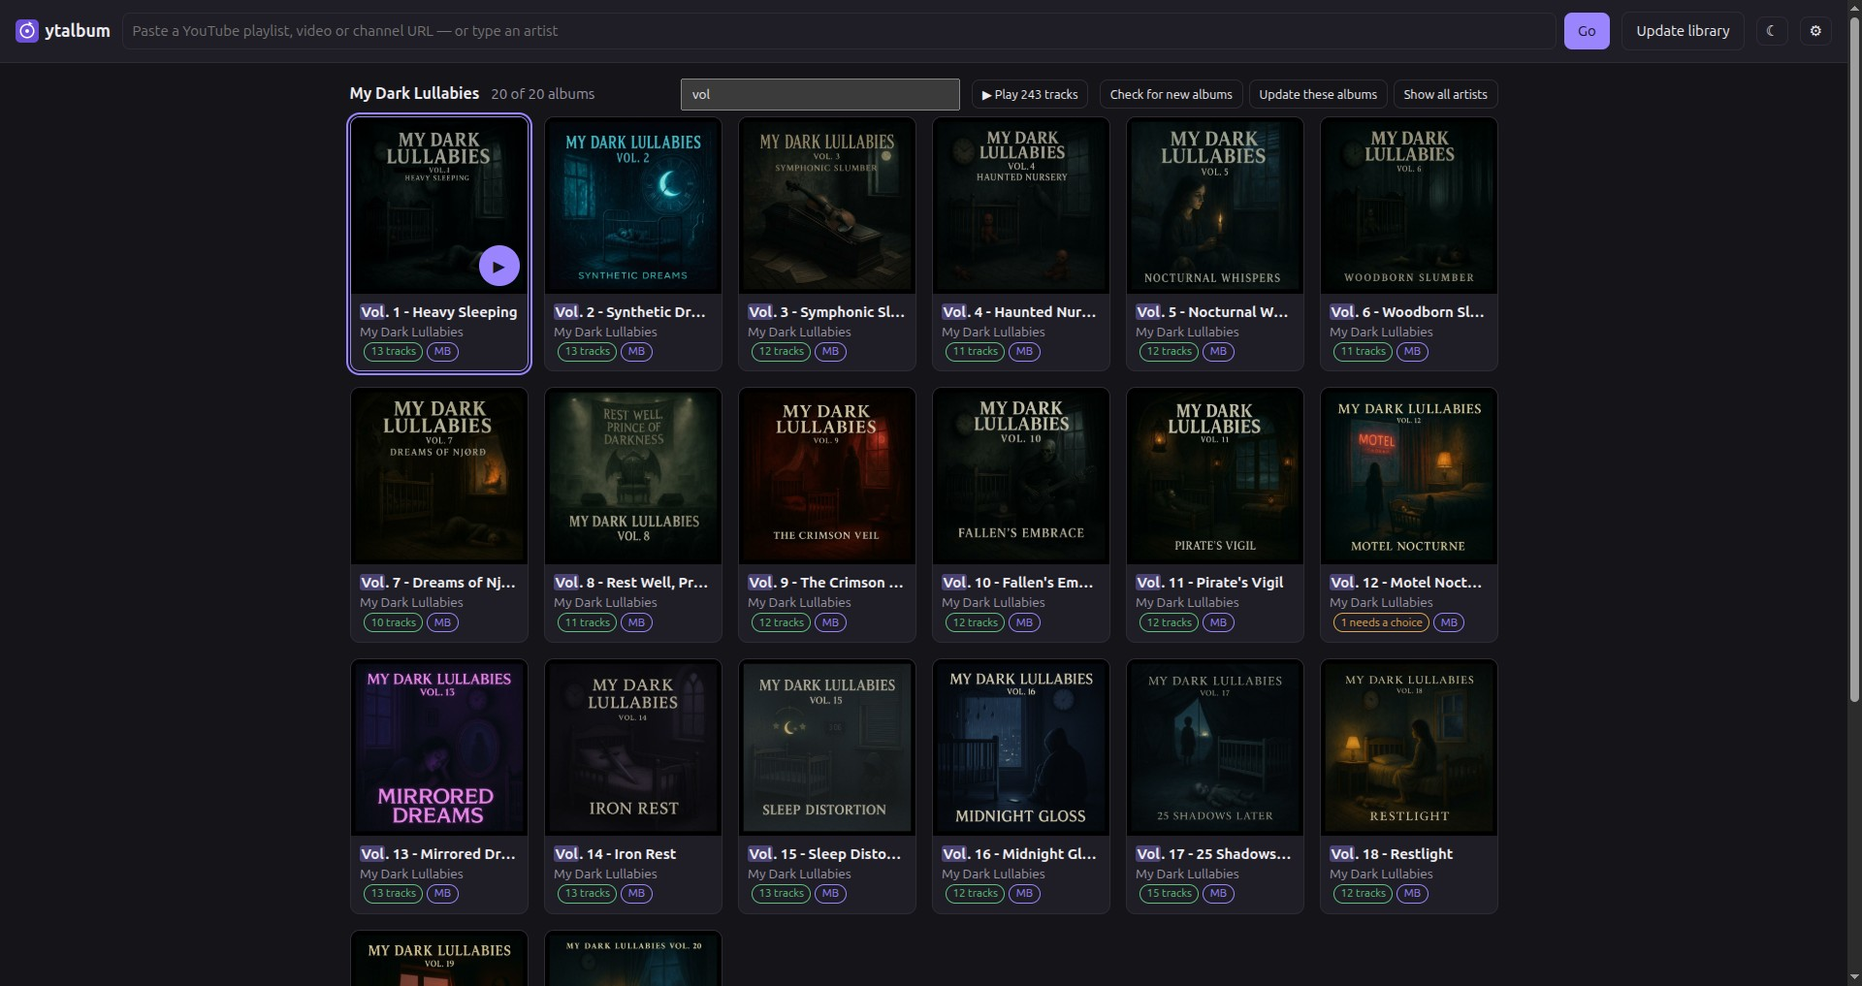
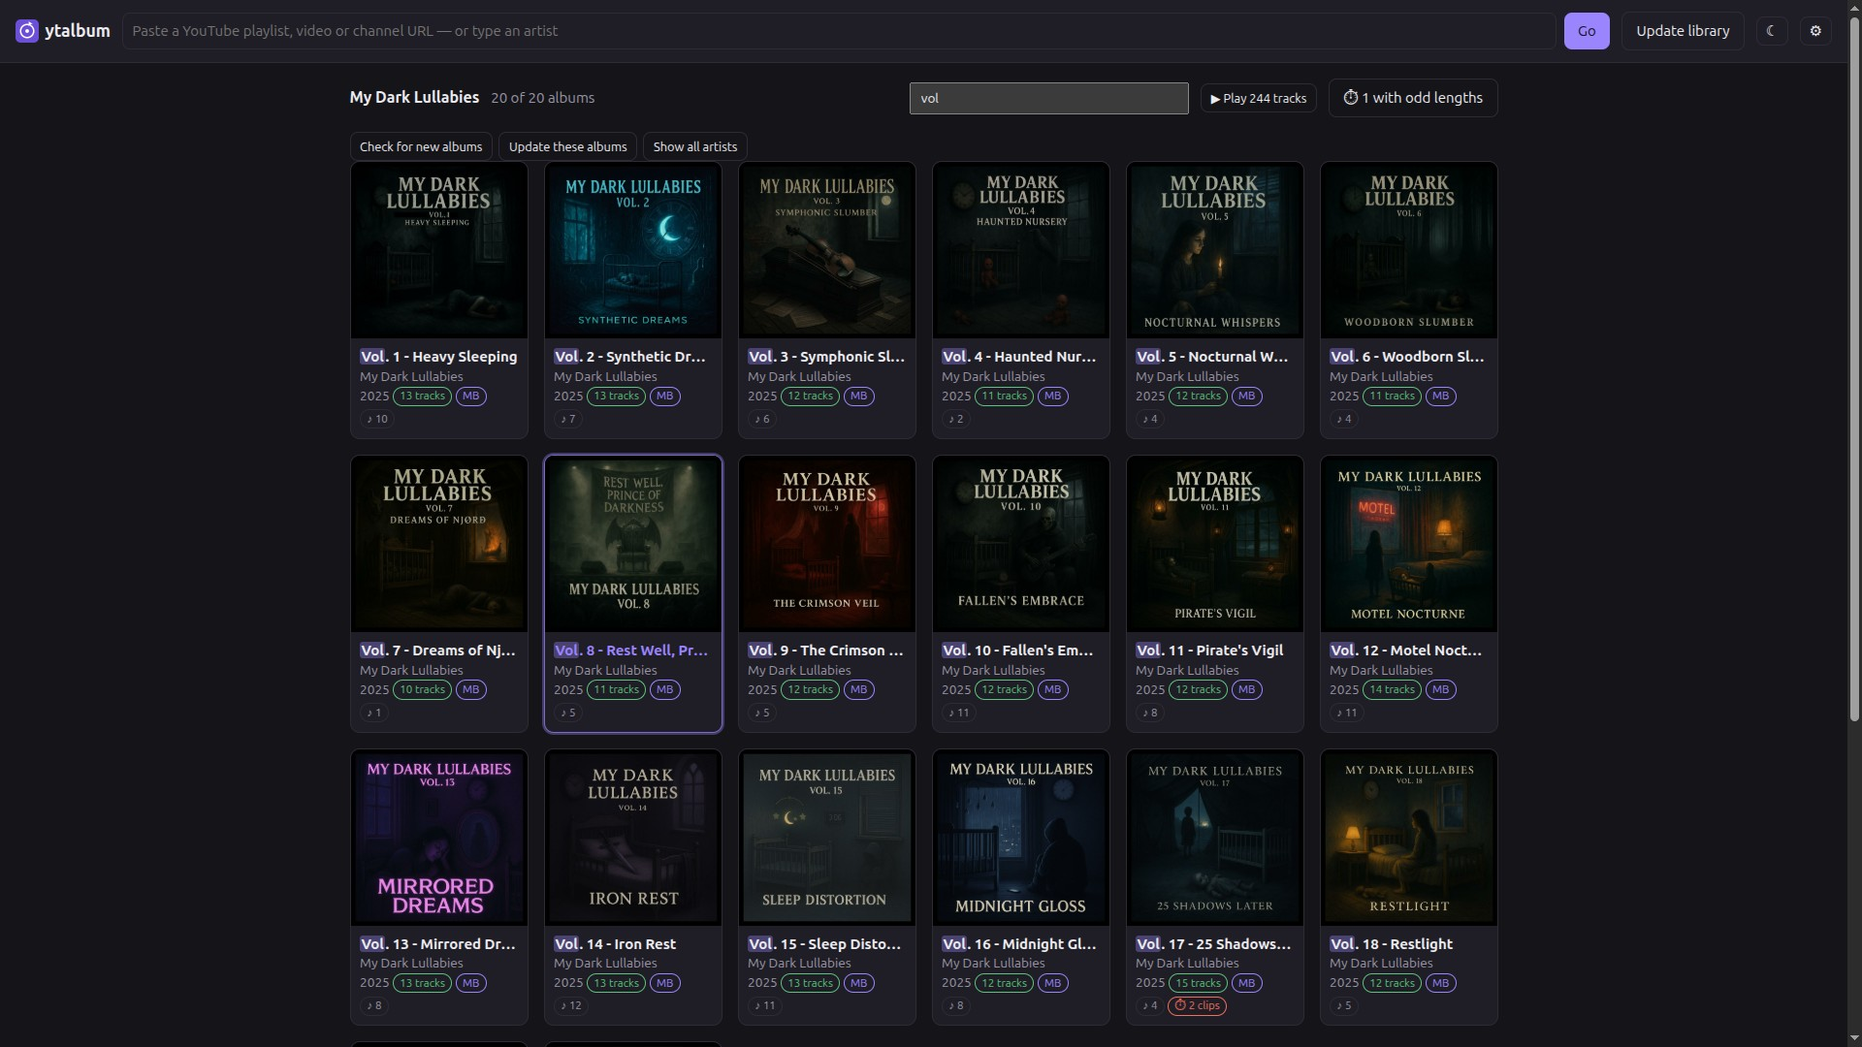
An edition is not a version, and a length belongs to its own recording
core() strips bracket groups before comparing titles, which is right for
"(Deluxe Edition)" and wrong for "(Instrumental)". Measured against the real
YouTube titles of 35 albums: 5 carried an edition marker MusicBrainz lacked,
1 a version marker - OPVS NOIR Vol. 1 (Instrumental), filed as the ordinary
album. Re-fetched with the rule in place it did not just keep its name, it
matched the right MusicBrainz release.

The same measurement found the companion fault: a track whose recording was
refused ("(Live)", a cover) kept that recording's length anyway - 55 tracks in
the library, 21 of them marked by the new length chip, a live cut reading two
minutes short against its studio version. mb_length is now written only when the
recording is accepted, and repair gives up the ones already stored.

Both thresholds of the album flag were corrected once the library answered: a
stub flags an album alone (8 tracks of 3946 are one, each a snippet, a radio edit
or a wrong match), a whole-album drift needs three tracks rather than two. 12
albums are flagged, and the card badges now wrap instead of being cut off.

Changed region(s): [[0.1875, 0.061, 0.8125, 1.0], [0.0, 0.0, 0.0625, 0.061], [0.8438, 0.0305, 0.9062, 0.061]]

diff --git a/src/ytalbum/webui/app.js b/src/ytalbum/webui/app.js
@@ -352,12 +352,14 @@ addEventListener("scroll", () => { toTop.hidden = scrollY < 600; }, { passive: t
 // means the release we matched is not the one we have (or the playlist is not the album).
 function lengthBadge(a) {
   if (!a.length) return null;
-  const short = a.length.way === "short";
-  return h("span", { class: `badge ${short ? "bad" : "warn"}`,
-    title: short
-      ? `${a.length.n} of ${a.length.of} tracks are far shorter than the song is meant to be — previews, commentary clips, or the wrong release matched`
-      : `${a.length.n} of ${a.length.of} tracks run well over the known length — intros to cut, or the wrong release matched` },
-    `\u23f1 ${a.length.n}/${a.length.of} ${short ? "short" : "long"}`);
+  const { way, n, of } = a.length;
+  const text = { stub: `⏱ ${n} clip${n > 1 ? "s" : ""}`, short: `⏱ ${n}/${of} short`, long: `⏱ ${n}/${of} long` }[way];
+  const title = {
+    stub: `${n} track${n > 1 ? "s are" : " is"} far shorter than the song — a snippet, a radio edit, or the wrong recording matched`,
+    short: `${n} of ${of} tracks fall well under the known length — previews, or the wrong release matched`,
+    long: `${n} of ${of} tracks run well over the known length — intros to cut, or the wrong release matched`,
+  }[way];
+  return h("span", { class: `badge ${way === "long" ? "warn" : "bad"}`, title }, text);
 }
 
 function card(a) {

diff --git a/src/ytalbum/webui/style.css b/src/ytalbum/webui/style.css
@@ -61,7 +61,10 @@ h2 { font-size: 1rem; margin: .25rem 0 .75rem; }
 .cover.none { display: grid; place-items: center; font-size: 2rem; color: var(--muted); }
 .card .meta { padding: .5rem .6rem .6rem; }
 .card .title { font-weight: 600; overflow: hidden; text-overflow: ellipsis; white-space: nowrap; }
-.card .artist, .card .info { font-size: .85rem; color: var(--muted); overflow: hidden; text-overflow: ellipsis; white-space: nowrap; }
+.card .artist { font-size: .85rem; color: var(--muted); overflow: hidden; text-overflow: ellipsis; white-space: nowrap; }
+/* the badges wrap instead of being cut off: a card can carry tracks, MB, lyrics and a length */
+.card .info { font-size: .85rem; color: var(--muted); display: flex; flex-wrap: wrap; align-items: center; gap: .2rem; }
+.card .info .badge { margin-left: 0; }
 .badge { display: inline-block; font-size: .72rem; padding: .05rem .4rem; border-radius: 99px; border: 1px solid var(--line); color: var(--muted); margin-left: .25rem; }
 .badge.mb, .badge.user { border-color: var(--accent); color: var(--accent); }
 .badge.ok { border-color: var(--ok); color: var(--ok); }

diff --git a/tests/test_musicbrainz.py b/tests/test_musicbrainz.py
@@ -14,11 +14,14 @@ from ytalbum.enrich import (
     credited,
     enrich,
     enrich_release,
+    enrich_track,
     feat_text,
     kept_suffixes,
     pick_recording,
+    release_candidates,
     split_lookup,
     uploader_stood_in,
+    version_markers,
 )
 from ytalbum.mb import MusicBrainz, MusicBrainzError, phrase
 from ytalbum.models import Collection, Kind, PlanTrack, Provenance
@@ -341,3 +344,65 @@ def test_the_release_and_its_tracks_get_the_artists_own_spelling():
     assert plan.albumartist == "Visions of Atlantis"
     assert {t.artist for t in plan.tracks} == {"Visions of Atlantis"}
     assert plan.provenance["albumartist"] == Provenance.MB
+
+
+# -- a bracket group can say the recordings are different ones ------------------------------
+
+
+@pytest.mark.parametrize(
+    ("title", "markers"),
+    [
+        ("OPVS NOIR Vol. 1 (Instrumental)", {"instrumental"}),
+        ("Heroes (Track Commentary Version)", {"commentary"}),
+        ("Louder Than Hell (Live in Hamburg)", {"live"}),
+        ("Swan Songs (Deluxe Edition)", set()),  # an edition holds the same recordings
+        ("Nimmermehr (Tour Edition)", set()),
+        ("Temple of the Torn (Collector's Cut)", set()),
+        ("Alive", set()),  # not a marker: it must be a word of its own, in brackets
+        ("Wildlive", set()),
+    ],
+)
+def test_version_markers_are_told_from_edition_markers(title, markers):
+    assert version_markers(title) == markers
+
+
+def release_named(title, n=13):
+    return {"id": "rel", "title": title, "track-count": n, "status": "Official",
+            "artist-credit": [{"name": "Sabaton", "artist": {"name": "Sabaton"}}], "score": 100}
+
+
+def test_a_release_of_other_recordings_is_not_our_album():
+    """The Sabaton case: 11 commentary clips took the name of the album they talk about."""
+    plan = plan_for("vol1_collection.json")
+    plan.albumartist, plan.album = "Sabaton", "Heroes (Track Commentary Version)"
+    assert release_candidates(plan, [release_named("Heroes")]) == []
+    assert release_candidates(plan, [release_named("Heroes (Track Commentary Version)")])
+
+
+def test_an_edition_still_matches_the_plain_release():
+    plan = plan_for("vol1_collection.json")
+    plan.albumartist, plan.album = "Sabaton", "Heroes (Deluxe Edition)"
+    assert release_candidates(plan, [release_named("Heroes")])
+
+
+def test_a_studio_release_is_not_offered_for_a_live_upload():
+    plan = plan_for("vol1_collection.json")
+    plan.albumartist, plan.album = "Sabaton", "Heroes (Live in Prague)"
+    assert release_candidates(plan, [release_named("Heroes")]) == []
+
+
+def test_a_rejected_recording_leaves_no_length_behind():
+    """`mb_length` is the length of the recording we accepted, or nothing at all."""
+    t = PlanTrack(video_id="a" * 11, number=1, artist="Feuerschwanz", title="Ketzerei (Summer Breeze 2016)",
+                  filename="", provenance={})
+
+    class OneRecording:
+        def search_recordings(self, artist, title):
+            return [{"id": "rec-1", "title": "Ketzerei", "length": 215500, "score": 100,
+                     "artist-credit": [{"name": "Feuerschwanz", "artist": {"name": "Feuerschwanz"}}]}]
+
+    assert enrich_track(t, OneRecording()) is True
+    assert t.artist == "Feuerschwanz"  # the artist is confirmed
+    assert t.title == "Ketzerei (Summer Breeze 2016)"  # our title stands
+    assert t.mbid is None
+    assert t.mb_length is None

diff --git a/src/ytalbum/enrich.py b/src/ytalbum/enrich.py
@@ -30,6 +30,17 @@ MIN_TRACK_MATCH = 0.8
 RELEASE_LOOKUPS = 3  # candidates to open per album (each is one request)
 
 _GROUP = re.compile(r"\s*[(\[]([^()\[\]]*)[)\]]")
+# Bracket groups that say the recordings themselves are different ones. An edition marker
+# ("Deluxe Edition", "Tour Edition", "Collector's Cut") names the same songs and MusicBrainz
+# is right to drop it; these do not. Measured on 35 library albums: 5 carried an edition
+# marker YouTube had and MusicBrainz lacked, 1 a version marker — "OPVS NOIR Vol. 1
+# (Instrumental)", which had been filed as the ordinary album (DESIGN.md §9.19).
+VERSION_MARKERS = (
+    "instrumental", "instrumentals", "karaoke", "acoustic", "unplugged", "live", "demo", "demos",
+    "commentary", "remix", "remixes", "a cappella", "acapella", "orchestral", "symphonic",
+    "radio edit", "sped up", "slowed", "reprise", "rehearsal", "backing track",
+)
+_MARKER = re.compile(r"\b(" + "|".join(VERSION_MARKERS) + r")\b", re.I)
 _FEAT = re.compile(r"\b(?:feat\.?|ft\.?|featuring)\s", re.I)
 
 
@@ -68,6 +79,11 @@ def kept_suffixes(ours: str, theirs: str, albums: list[str] = ()) -> str:
             continue
         kept.append(g)
     return "".join(f" {g}" for g in kept)
+
+
+def version_markers(title: str) -> set[str]:
+    """What a title's bracket groups say this release *is*: {'instrumental'}, {'live'}, …"""
+    return {m.lower() for group in _GROUP.findall(title) for m in _MARKER.findall(group)}
 
 
 def credited(entry: dict[str, Any]) -> str:
@@ -163,16 +179,17 @@ def enrich_track(t: PlanTrack, mb: MusicBrainzAPI) -> bool:
         title += "".join(f" {g}" for g in re.findall(r"\([^)]*feat[^)]*\)", title_source, re.I))
     artist, title = move_feat(credit_phrase(ac), title)  # "A feat. B" - "Song" -> "A" - "Song feat. B"
     _set(t, "artist", artist)
-    if length := rec.get("length"):
-        t.mb_length = round(length / 1000, 1)  # lets the UI suggest where the song ends
     if extra:
         # "(Live)", "(Behind The Scenes Documentary)": the artist is confirmed, but this is
-        # not that recording - keep our title, attach no recording id
+        # not that recording - keep our title, attach no recording id, and take no length
+        # from it either (a live cut measured against the studio one reads as 2 minutes off)
         t.title = t.auto["title"] = title
         t.provenance["title"] = Provenance.YT_TITLE
     else:
         _set(t, "title", title)
         t.mbid = rec["id"]
+        if length := rec.get("length"):
+            t.mb_length = round(length / 1000, 1)  # lets the UI suggest where the song ends
     return True
 
 
@@ -189,6 +206,7 @@ def release_candidates(plan: AlbumPlan, releases: list[dict[str, Any]]) -> list[
         r
         for r in releases
         if key(core(r.get("title", ""))) == key(core(plan.album))
+        and version_markers(r.get("title", "")) == version_markers(plan.album)
         and artist_matches(plan.albumartist, r.get("artist-credit", []))
         and abs(int(r.get("track-count") or 0) - n) <= 1
     ]

diff --git a/src/ytalbum/plan.py b/src/ytalbum/plan.py
@@ -433,18 +433,29 @@ def length_gap(track: PlanTrack) -> float | None:
     return None if ours is None or not theirs else ours - theirs
 
 
-def album_length_flag(plan: AlbumPlan) -> dict[str, object] | None:
-    """`{way, n, of}` when most of an album disagrees the same way, else None.
+def is_stub(track: PlanTrack) -> bool:
+    """A file far shorter than the song: a snippet, a teaser, or a match that is plain wrong."""
+    ours, theirs = effective_length(track), reference_length(track)
+    return bool(ours and theirs and ours < theirs * LENGTH_STUB)
 
-    Half an album being wrong is a different fault from one track being wrong: it means the
-    release we matched is not the one we downloaded, or the playlist is not the album at all
-    (a Sabaton "album" of 11 track-commentary clips is what this first caught).
+
+def album_length_flag(plan: AlbumPlan) -> dict[str, object] | None:
+    """`{way, n, of}` when an album is worth looking at, else None.
+
+    Two faults, two messages. A *stub* is strong on its own — 8 of 3946 tracks are one, and
+    each turned out to be a snippet, a radio edit or a wrong recording. A whole album being
+    off the same way means the release we matched is not the one we downloaded (a Sabaton
+    "album" of 11 track-commentary clips is what this first caught), and that needs more than
+    two tracks to say: at two, a compilation where only four tracks can be compared at all
+    would be flagged for a pair of long folk songs.
     """
     gaps = [g for t in plan.tracks if t.state == "done" and (g := length_gap(t)) is not None]
     if len(gaps) < 2:
         return None
+    if stubs := sum(is_stub(t) for t in plan.tracks if t.state == "done"):
+        return {"way": "stub", "n": stubs, "of": len(gaps)}
     for way, n in (("short", sum(g < -LENGTH_BIG for g in gaps)), ("long", sum(g > LENGTH_BIG for g in gaps))):
-        if n >= max(2, len(gaps) * ALBUM_SHARE):
+        if n >= max(3, len(gaps) * ALBUM_SHARE):
             return {"way": way, "n": n, "of": len(gaps)}
     return None
 

diff --git a/tests/test_length.py b/tests/test_length.py
@@ -3,7 +3,15 @@
 import pytest
 from test_incremental import vol1
 
-from ytalbum.plan import LENGTH_BIG, album_length_flag, build_plan, effective_length, length_gap, reference_length
+from ytalbum.plan import (
+    LENGTH_BIG,
+    album_length_flag,
+    build_plan,
+    effective_length,
+    is_stub,
+    length_gap,
+    reference_length,
+)
 
 
 def album(*lengths, mb=None, done=True):
@@ -45,10 +53,29 @@ def test_nobody_else_has_an_opinion():
     assert album_length_flag(album(180.0, 190.0)) is None
 
 
-def test_an_album_of_teasers_is_flagged_as_short():
+def test_an_album_of_teasers_is_flagged_as_clips():
     # what this first caught: a Sabaton "album" of eleven track-commentary clips
     plan = album(34.0, 44.0, 39.0, 50.0, mb=200.0)
-    assert album_length_flag(plan) == {"way": "short", "n": 4, "of": 4}
+    assert album_length_flag(plan) == {"way": "stub", "n": 4, "of": 4}
+
+
+def test_one_track_far_under_the_known_length_is_enough():
+    """8 tracks of 3946 are one, and each was a snippet, a radio edit or a wrong match."""
+    plan = album(78.0, 200.0, 200.0, 200.0, mb=198.0)
+    assert album_length_flag(plan) == {"way": "stub", "n": 1, "of": 4}
+    assert is_stub(plan.tracks[0]) and not is_stub(plan.tracks[1])
+
+
+def test_a_short_album_that_is_not_made_of_clips():
+    # 40s under a 200s song is wrong, but it is still most of the song
+    plan = album(160.0, 158.0, 155.0, 200.0, mb=200.0)
+    assert album_length_flag(plan) == {"way": "short", "n": 3, "of": 4}
+
+
+def test_two_long_tracks_are_not_enough_to_damn_an_album():
+    """A volume where only four tracks can be compared kept being flagged for two long ones."""
+    plan = album(230.0, 230.0, 200.0, 200.0, mb=200.0)
+    assert album_length_flag(plan) is None
 
 
 def test_an_album_of_padded_uploads_is_flagged_as_long():

diff --git a/src/ytalbum/service.py b/src/ytalbum/service.py
@@ -394,6 +394,14 @@ class Service:
                 self.log(f"{len(plan.tracks) - len(unique)} duplicate track(s) removed from the album")
                 plan.tracks = unique
                 renumber(plan)
+            # a length belongs to the recording it was read from; tracks whose recording was
+            # refused ("(Live)", a cover) kept one anyway and read as minutes off (fixed 2026-09-25)
+            borrowed = sum(bool(t.mb_length and not t.mbid) for t in plan.tracks)
+            if borrowed:
+                for t in plan.tracks:
+                    if t.mb_length and not t.mbid:
+                        t.mb_length = None
+                self.log(f"{borrowed} track(s) gave up a length taken from another recording")
             for t in plan.tracks:
                 if t.provenance.get("artist") == Provenance.YT_MUSIC and ", " in t.artist:
                     t.artist = t.auto["artist"] = t.artist.split(", ")[0]  # writers and producers
@@ -415,7 +423,7 @@ class Service:
             # a plan can be right while the folder is not: the album artist was unified
             # earlier without moving anything (fixed 2026-09-24, but the folders remain)
             misplaced = album_dir != self.library / wanted_folder(plan)
-            if not misplaced and before == (plan.albumartist, [(t.artist, t.title) for t in plan.tracks], len(plan.tracks)):
+            if not misplaced and not borrowed and before == (plan.albumartist, [(t.artist, t.title) for t in plan.tracks], len(plan.tracks)):
                 continue
             self.log(f"=== {plan.albumartist} — {plan.album}")
             save_plan(plan, album_dir)

diff --git a/tests/test_repair.py b/tests/test_repair.py
@@ -156,3 +156,18 @@ def test_a_spelling_the_user_chose_beats_musicbrainz(tmp_path, opus_template):
 def test_without_either_the_case_rule_still_decides(tmp_path, opus_template):
     names = [("SCHANDMAUL", Provenance.YT_TITLE), ("Schandmaul", Provenance.YT_MUSIC)]
     assert harmonised(tmp_path, opus_template, names, own=("SCHANDMAUL", Provenance.YT_TITLE)) == "Schandmaul"
+
+
+def test_a_length_read_from_another_recording_is_given_up(tmp_path, opus_template):
+    """A live cut kept the studio recording's length, which reads as minutes off."""
+
+    def borrow(plan):
+        plan.tracks[0].mb_length, plan.tracks[0].mbid = 215.5, None  # "(Summer Breeze 2016)"
+        plan.tracks[1].mb_length, plan.tracks[1].mbid = 208.2, "rec-1"  # this one really matched
+
+    tmp_path, plan = library_with(tmp_path, opus_template, borrow)
+    service(tmp_path, opus_template).repair()
+
+    saved = load_plan(tmp_path / plan.folder)
+    assert saved.tracks[0].mb_length is None
+    assert saved.tracks[1].mb_length == 208.2  # the accepted one keeps it

diff --git a/tests/test_web.py b/tests/test_web.py
@@ -431,4 +431,4 @@ def test_the_grid_carries_the_length_flag(server):
     for t in plan.tracks:  # a playlist of teasers: every track far shorter than the song
         t.file_length, t.mb_length = 40.0, 200.0
     save_plan(plan, album_dir)
-    assert app.albums()[0]["length"] == {"way": "short", "n": len(plan.tracks), "of": len(plan.tracks)}
+    assert app.albums()[0]["length"] == {"way": "stub", "n": len(plan.tracks), "of": len(plan.tracks)}

diff --git a/README.md b/README.md
@@ -28,6 +28,9 @@ Comes with a command line and a small web app for the library.
   re-encodes it.
 - **It tags everything**, embeds the cover and files it as
   `Album artist/Album/Album artist - Album - 07 - [Track artist - ]Title.opus`.
+- **An edition is not a version.** "(Deluxe Edition)" names the same recordings and
+  MusicBrainz' spelling wins; "(Instrumental)", "(Live)" or "(Track Commentary Version)" do
+  not, and an album keeps them rather than being filed as the record it only resembles.
 - **It tells you when a track is not the length it should be.** MusicBrainz and LRCLIB both
   know how long a song is; where the file disagrees you see by how much, and an album whose
   tracks are mostly wrong is marked in the library — that is how a Sabaton "album" turned out
@@ -104,7 +107,7 @@ idle minutes.
 | ![Album view](docs/screenshots/album.jpg) | ![Channel listing](docs/screenshots/search.jpg) |
 | **Album view:** cover, editable fields, where each value came from, position, disc and trim points, per-track delete. The trim column says how far the file is from the length MusicBrainz and LRCLIB know — amber for a wide gap, red when it is far too short to be that song at all. ♪ marks a track whose lyrics are here — click it to read them (from the `.lrc` beside the file), and click a line to play from there — while the song plays, the line being sung is marked, so a file that carries an intro shows itself by drifting. A compilation keeps one artist per track; playing a track adds a position bar with trim handles. | **A URL or an artist name:** here a curator's channel — every playlist it publishes, track counts filled in afterwards, "in library" markers, tick what you want. |
 | ![Settings](docs/screenshots/settings.jpg) | ![Library](docs/screenshots/library.jpg) |
-| **Settings:** library folder, YouTube login, MusicBrainz, token helper, parallel requests — and what it found: config file, JS runtime, token generator. | **Library:** one artist's albums, narrowed further by the filter with the matches highlighted, ▶ plays all of them, and "check for new albums" asks YouTube for that artist alone. |
+| **Settings:** library folder, YouTube login, MusicBrainz, token helper, parallel requests — and what it found: config file, JS runtime, token generator. | **Library:** one artist's albums, narrowed further by the filter with the matches highlighted, ▶ plays all of them, and "check for new albums" asks YouTube for that artist alone. ♪ counts the tracks whose lyrics are here; ⏱ marks an album that is not the length it should be. |
 
 The compilations throughout these screenshots are
 [**My Dark Lullabies**](https://www.youtube.com/@MyDarkLullabies) — *"a curated collection

diff --git a/DESIGN.md b/DESIGN.md
@@ -481,7 +481,24 @@ PlanTrack   { video_id, number, disc, artist, title, filename, state: pending|do
    track-commentary clips of 30–50 s filed as the album, because YouTube's own title
    ("Heroes (Track Commentary Version)") lost its bracket group to `core()` when the release
    was matched and MusicBrainz then named it "Heroes". Replaced by the real album, where
-   every track now lands within 3 s.
+   every track now lands within 3 s. Two thresholds were corrected once the library answered:
+   a *stub* (a file under 60 % of the known length) flags an album on its own, because only 8
+   of 3946 tracks are one and every one was a snippet, a radio edit or a wrong recording;
+   while a whole-album drift needs **three** tracks, not two — at two, a volume where only
+   four tracks can be compared at all was flagged for a pair of long folk songs.
+
+19. ✅ A bracket group can say the recordings are different ones (2026-09-25). `core()` strips
+   bracket groups before comparing titles, which is right for "(Deluxe Edition)" and wrong for
+   "(Instrumental)": the first names the same recordings, the second does not. Measured on 35
+   library albums against their real YouTube titles: 5 had an edition marker MusicBrainz
+   lacked (correctly dropped), 1 a version marker — "OPVS NOIR Vol. 1 (Instrumental)", filed
+   as the ordinary album. A release candidate is now refused unless its version markers match
+   ours; re-fetched, that album did not merely keep its name, it matched the *right*
+   MusicBrainz release. The same measurement found the companion fault: a track whose
+   recording was refused ("(Live)", a cover) still kept that recording's length, so 55 tracks
+   carried a length they never had and 21 of them were marked by the new chip — a live cut
+   against its studio version reads as two minutes off. `mb_length` is now only written when
+   the recording is accepted, and `repair` gives up the ones already stored.
 
 ## 10. Rules for whoever implements this (lessons from the v2 loop)
 
